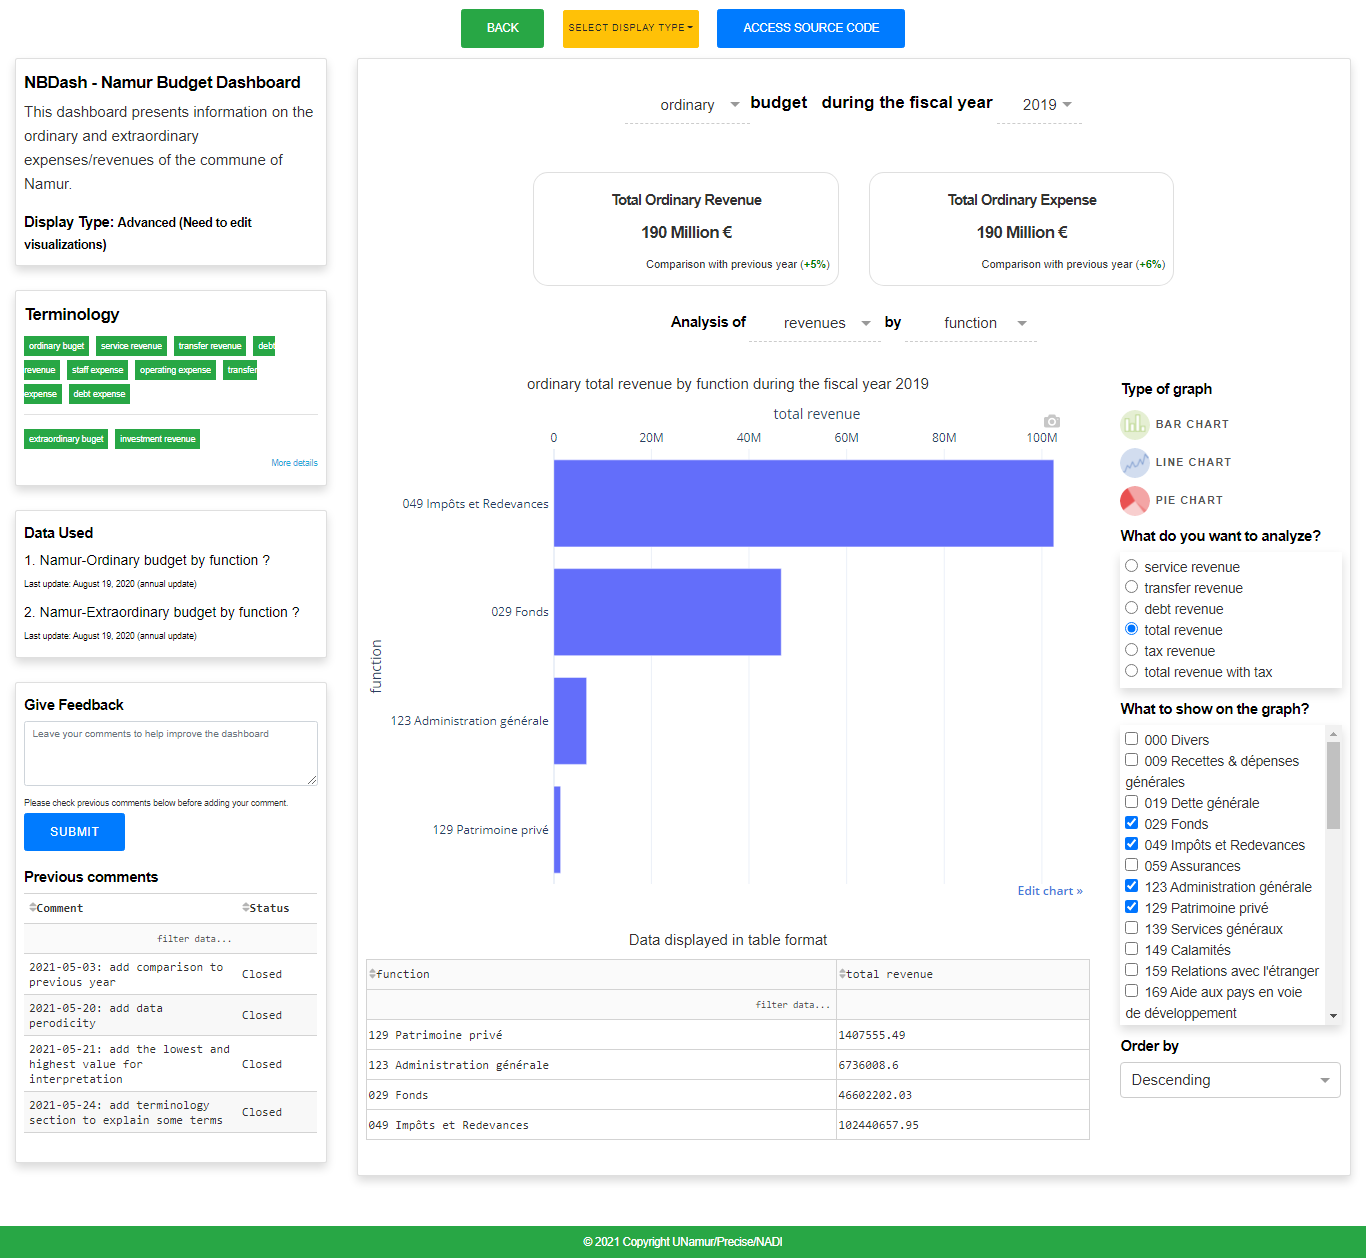
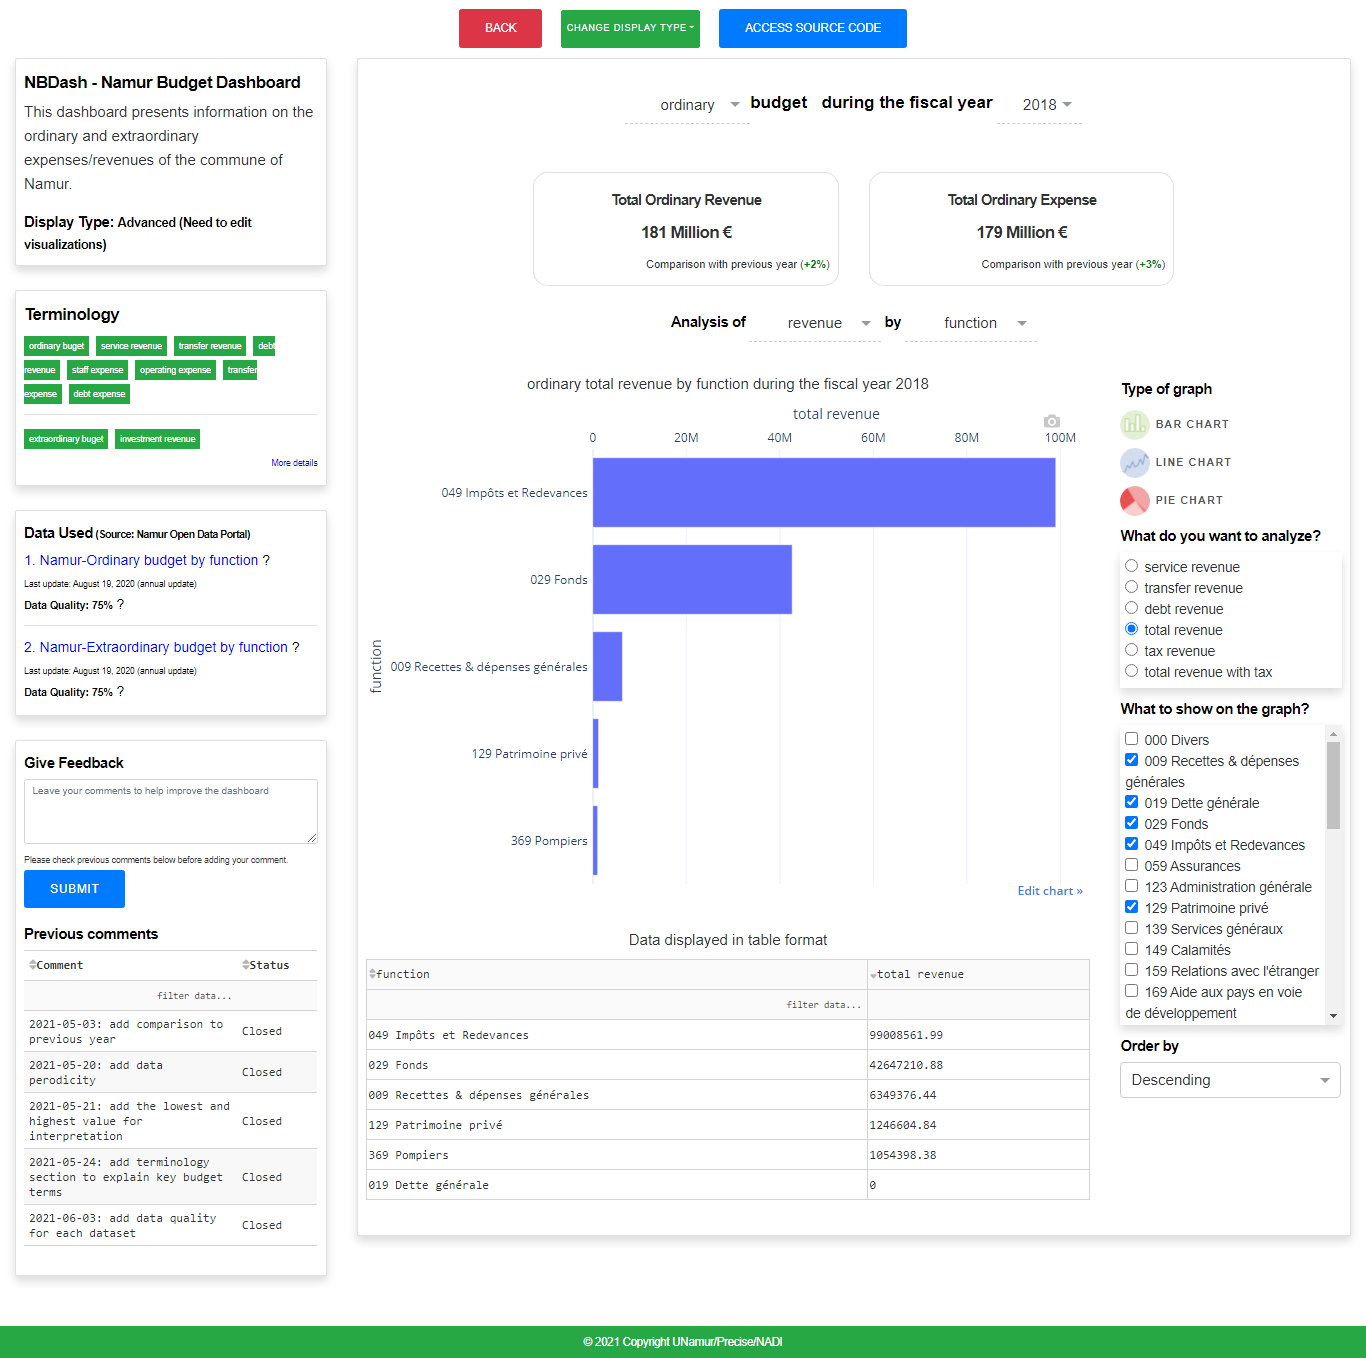
Fix slow loading issue

diff --git a/assets/style.css b/assets/style.css
@@ -246,3 +246,10 @@ hr{
   margin-top: 1rem !important;
   margin-bottom: 1rem !important;
 }
+.text-blue{
+  color: blue !important;
+}
+
+.spanmd{
+  font-size: 1.05rem;
+}

diff --git a/apps/budget.py b/apps/budget.py
@@ -104,10 +104,10 @@ layout = dbc.Container([
     dbc.Row([
         dbc.Col([
             html.Div([
-                html.A("Back", href='/', className="btn bglarge no-decor btn-success mr-3"),
+                html.A("Back", href='/', className="btn bglarge no-decor btn-danger mr-3"),
                 #html.A("Partager", href='/', className="btn bglarge no-decor btn-primary mr-1"),
                 dbc.DropdownMenu(
-                    user_displays, label="Select Display Type", bs_size="sm", color="warning", className="btn no-decor round mr-3"
+                    user_displays, label="Change Display Type", bs_size="sm", color="success", className="btn no-decor round mr-3 dt-button"
                 ),
                 html.A("Access Source Code", href='https://github.com/chokkipaterne/nbdash', target="_blank", id="sourcecode", style={"display": "none"}, className="btn bglarge no-decor btn-primary"),
             ]),
@@ -146,7 +146,10 @@ layout = dbc.Container([
             dbc.Card(
                 [
                     dbc.CardBody([
-                        html.H5("Data Used",
+                        html.H5(["Data Used",
+                        html.Span(["  (Source: Namur Open Data Portal)"
+                        ],className="spanmd"),]
+                        ,
                                     className='sm-title mb-2'),
                         html.Div(
                             [
@@ -155,7 +158,7 @@ layout = dbc.Container([
                                         dcc.Link([
                                             "1. ",
                                             "Namur-Ordinary budget by function",
-                                        ], href='https://data.namur.be/explore/dataset/namur-budget-ordinaire-par-fonction/information/?disjunctive.fonctions', target="_blank", className="no-decor sm-font text-black"),
+                                        ], href='https://translate.google.com/translate?sl=fr&tl=en&u=https://data.namur.be/explore/dataset/namur-budget-ordinaire-par-fonction/information/?disjunctive.fonctions', target="_blank", className="no-decor sm-font text-blue"),
                                         html.Span(
                                             " ?",
                                             id="tooltip-target",
@@ -165,7 +168,16 @@ layout = dbc.Container([
                                         html.Span([
                                             'Last update: '
                                             f'{retrieved_date}',
-                                        ],className="spansm")
+                                        ],className="spansm"),
+                                        html.Br(),
+                                        html.B([
+                                            'Data Quality: 75%'
+                                        ],className="spanmd"),
+                                        html.Span(
+                                            " ?",
+                                            id="tooltipq-target",
+                                            style={"cursor": "pointer"},
+                                        ),
 
                                     ], className="sm-font text-black"
                                 ),
@@ -174,13 +186,26 @@ layout = dbc.Container([
                                     "the current operation of the City of Namur excluding investments.",
                                     target="tooltip-target",
                                 ),
+                                dbc.Tooltip([
+                                    "No missing values: 100%",
+                                    html.Br(),
+                                    "Data Information (title, description, modified data, update frequency): 100%",
+                                    html.Br(),
+                                    "Column titles: 100%",
+                                    html.Br(),
+                                    "Column Descriptions: 0%",
+                                    html.Br(),
+                                    "Average Quality: 75%"],
+                                    target="tooltipq-target",
+                                ),
                             ]
                         ),
+                        html.Hr(),
                         html.Div(
                             [
                                 html.P(
                                     [
-                                        dcc.Link("2. Namur-Extraordinary budget by function", href='https://data.namur.be/explore/dataset/namur-budget-extraordinaire-par-fonction/information/?disjunctive.fonctions', target="_blank", className="no-decor sm-font text-black"),
+                                        dcc.Link("2. Namur-Extraordinary budget by function", href='https://translate.google.com/translate?sl=fr&tl=en&u=https://data.namur.be/explore/dataset/namur-budget-extraordinaire-par-fonction/information/?disjunctive.fonctions', target="_blank", className="no-decor sm-font text-blue"),
                                         html.Span(
                                             " ?",
                                             id="tooltip-target1",
@@ -190,7 +215,16 @@ layout = dbc.Container([
                                         html.Span([
                                             'Last update: '
                                             f'{retrieved_date}',
-                                        ],className="spansm")
+                                        ],className="spansm"),
+                                        html.Br(),
+                                        html.B([
+                                            'Data Quality: 75%'
+                                        ],className="spanmd"),
+                                        html.Span(
+                                            " ?",
+                                            id="tooltipq-target1",
+                                            style={"cursor": "pointer"},
+                                        ),
 
                                     ], className="sm-font text-black"
                                 ),
@@ -198,6 +232,18 @@ layout = dbc.Container([
                                     "This dataset includes the various revenues and expenses of the City of Namur's investments.  "
                                     "The expenses represent the amount of the investment, while the revenues represent the type of financing carried out in order to acquire the corresponding investment.",
                                     target="tooltip-target1",
+                                ),
+                                dbc.Tooltip([
+                                    "No missing values: 100%",
+                                    html.Br(),
+                                    "Data Information (title, description, modified data, update frequency): 100%",
+                                    html.Br(),
+                                    "Column titles: 100%",
+                                    html.Br(),
+                                    "Column Descriptions: 0%",
+                                    html.Br(),
+                                    "Average Quality: 75%"],
+                                    target="tooltipq-target1",
                                 ),
                             ]
                         )

diff --git a/index.py b/index.py
@@ -19,6 +19,10 @@ app.layout = html.Div([
     ]),
 ])
 
+#fix slow loading issue
+app.scripts.config.serve_locally = True
+app.css.config.serve_locally = True
+
 index_page = dbc.Container([
     dbc.Row([
         dbc.Col([
@@ -35,7 +39,7 @@ index_page = dbc.Container([
             html.Br(),
             html.Br(),
             html.Div([
-                dcc.Link("Get started", href='/apps/budget', className="btn bglarge no-decor btn-success"),
+                html.A("Get started", href='/apps/budget', className="btn bglarge no-decor btn-success"),
             ], className="mb-4"),
             html.Br(),
             html.Br(),

diff --git a/app.py b/app.py
@@ -5,6 +5,6 @@ import dash_bootstrap_components as dbc
 external_stylesheets = [dbc.themes.BOOTSTRAP, 'assets/style.css']
 app = dash.Dash(__name__, external_stylesheets=external_stylesheets,
                 meta_tags=[{'name': 'viewport',
-                            'content': 'width=device-width, initial-scale=1.0'}]
+                            'content': 'width=device-width, initial-scale=1.0'}], suppress_callback_exceptions=True
                 )
 server = app.server
